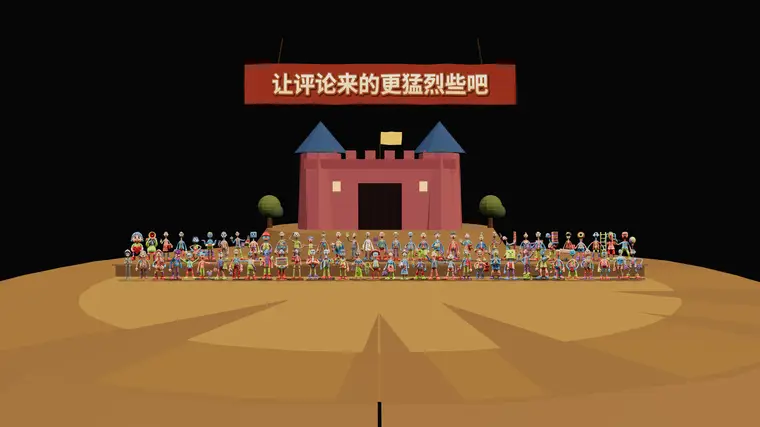
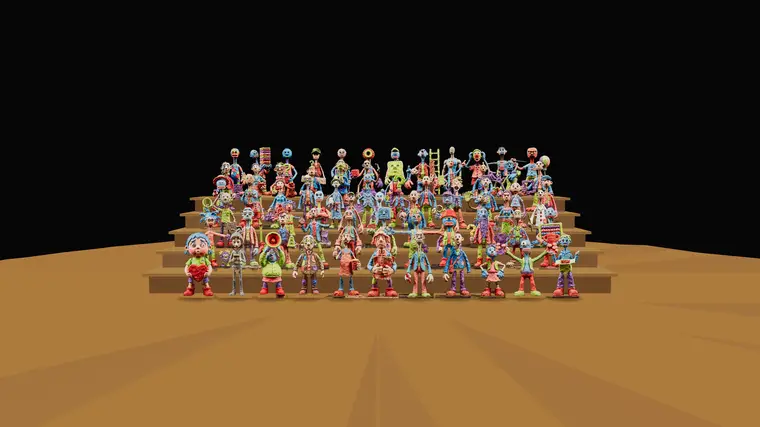
fix(72): 全体合影按用户反馈重拍——去掉横幅标题牌与城堡，69 人合影台阶 6 排毕业照

diff --git a/72/src/photo.html b/72/src/photo.html
@@ -3,7 +3,7 @@
 <head>
 <meta charset="UTF-8">
 <meta name="viewport" content="width=device-width, initial-scale=1">
-<title>全体合影 · 评论区粘土世界</title>
+<title>全体合影 · 毕业照 — 评论区粘土世界</title>
 <style>
   html,body{margin:0;height:100%;background:#060607;overflow:hidden}
   #scene{display:block;width:100%;height:100%}
@@ -13,7 +13,7 @@
 </head>
 <body>
 <canvas id="scene"></canvas>
-<div id="loading">正在集合，合影马上就来…</div>
+<div id="loading">正在排队站好，拍毕业照…</div>
 <script type="module">
 import * as THREE from 'three';
 
@@ -28,8 +28,8 @@ scene.background = new THREE.Color(0x060607);
 scene.fog = new THREE.FogExp2(0x060607, 0.0016);
 
 const camera = new THREE.PerspectiveCamera(40, innerWidth/innerHeight, 0.1, 500);
-camera.position.set(0, 8.6, 57);
-camera.lookAt(0, 6.2, -2);
+camera.position.set(0, 5.4, 26.5);
+camera.lookAt(0, 3.6, -3);
 
 scene.add(new THREE.HemisphereLight(0xfff2dd, 0x3a2c22, 1.05));
 const sun = new THREE.DirectionalLight(0xffe6b8, 1.8); sun.position.set(35, 60, 45); scene.add(sun);
@@ -61,20 +61,8 @@ function M(color, opts={}){
   }
   return matCache.get(key);
 }
-function box(w,h,d,color,x,y,z,ry=0,parent=scene){
+function box(w,h,d,color,x,y,z,parent=scene){
   const m = new THREE.Mesh(new THREE.BoxGeometry(w,h,d), M(color));
-  m.position.set(x,y,z); m.rotation.y = ry; parent.add(m); return m;
-}
-function cyl(rt,rb,h,color,x,y,z,parent=scene,seg=14){
-  const m = new THREE.Mesh(new THREE.CylinderGeometry(rt,rb,h,seg), M(color));
-  m.position.set(x,y,z); parent.add(m); return m;
-}
-function cone(r,h,color,x,y,z,parent=scene,seg=14){
-  const m = new THREE.Mesh(new THREE.ConeGeometry(r,h,seg), M(color));
-  m.position.set(x,y,z); parent.add(m); return m;
-}
-function ball(r,color,x,y,z,parent=scene){
-  const m = new THREE.Mesh(new THREE.SphereGeometry(r,12,10), M(color));
   m.position.set(x,y,z); parent.add(m); return m;
 }
 function jitterGeo(geo, amt, seed){
@@ -90,8 +78,7 @@ function jitterGeo(geo, amt, seed){
   geo.computeVertexNormals();
   return geo;
 }
-// 接触阴影
-const shadowTex = (()=>{ 
+const shadowTex = (()=>{
   const cv = document.createElement('canvas'); cv.width = cv.height = 128;
   const g = cv.getContext('2d');
   const gr = g.createRadialGradient(64,64,4, 64,64,62);
@@ -100,115 +87,26 @@ const shadowTex = (()=>{
   return new THREE.CanvasTexture(cv);
 })();
 const SHADOW_MAT = new THREE.MeshBasicMaterial({map:shadowTex, transparent:true, depthWrite:false});
-function shadowDisc(x, y, z, r, parent=scene){
+function shadowDisc(x, y, z, r){
   const m = new THREE.Mesh(new THREE.PlaneGeometry(r*2, r*2), SHADOW_MAT);
-  m.rotation.x = -Math.PI/2; m.position.set(x, y, z); m.renderOrder = 1; parent.add(m); return m;
+  m.rotation.x = -Math.PI/2; m.position.set(x, y, z); m.renderOrder = 1; scene.add(m); return m;
 }
 
-/* ---------- 舞台地面 ---------- */
+/* ---------- 地面 + 合影台阶（6 排，无背景建筑） ---------- */
+const ROWS = [11, 11, 11, 12, 12, 12];  // 前 → 后，共 69
+const STEP_H = 0.82, STEP_D = 1.75, STEP_W = 21.5;
 {
-  const stage = new THREE.Mesh(jitterGeo(new THREE.CylinderGeometry(36, 40, 2.2, 40), 0.3, 31), M('#9c7a56', {bump:0.5}));
-  stage.position.set(0, -1.1, -2); scene.add(stage);
-  const top = new THREE.Mesh(new THREE.CircleGeometry(35.6, 40), new THREE.MeshLambertMaterial({color:'#a37f52', bumpMap:bumpTex, bumpScale:0.4}));
-  top.rotation.x = -Math.PI/2; top.position.set(0, 0.02, -2); scene.add(top);
-  const inner = new THREE.Mesh(new THREE.CircleGeometry(26, 36), new THREE.MeshLambertMaterial({color:'#b8935e', bumpMap:bumpTex, bumpScale:0.35}));
-  inner.rotation.x = -Math.PI/2; inner.position.set(0, 0.035, 0.5); scene.add(inner);
-  // 后排长凳台
-  box(52, 1.15, 3.4, '#8a6d4f', 0, 0.58, -2.2);
-  box(52.6, 0.18, 3.8, '#a08059', 0, 1.22, -2.2);
-}
-
-/* ---------- 背景城堡（原创，粉墙蓝顶） ---------- */
-{
-  const cg = new THREE.Group(); cg.position.set(0, 0, -22); scene.add(cg);
-  cyl(15, 17.5, 3.6, '#9c7a56', 0, 1.8, 0, cg, 30);
-  const wallC = '#c4747f', roofC = '#4a6a9c', darkC = '#5d4250';
-  cyl(2.6, 3.0, 9.6, wallC, -7.6, 3.6+4.8, 3.4, cg, 12);
-  cyl(2.6, 3.0, 9.6, wallC, 7.6, 3.6+4.8, 3.4, cg, 12);
-  cone(3.5, 4.2, roofC, -7.6, 3.6+11.7, 3.4, cg, 12);
-  cone(3.5, 4.2, roofC, 7.6, 3.6+11.7, 3.4, cg, 12);
-  cyl(1.9, 2.2, 7.4, wallC, -7.6, 3.6+3.7, -4.4, cg, 12);
-  cyl(1.9, 2.2, 7.4, wallC, 7.6, 3.6+3.7, -4.4, cg, 12);
-  cone(2.6, 3.2, roofC, -7.6, 3.6+9.0, -4.4, cg, 12);
-  cone(2.6, 3.2, roofC, 7.6, 3.6+9.0, -4.4, cg, 12);
-  box(18.4, 7.6, 11.6, wallC, 0, 3.6+3.8, 0, 0, cg);
-  box(18.8, 1.2, 12.0, '#b4656f', 0, 3.6+8.2, 0, 0, cg);
-  for(let bx=-8.4; bx<=8.4; bx+=2.4){
-    box(1.3, 1.1, 0.7, wallC, bx, 3.6+9.3, 5.7, 0, cg);
-  }
-  box(5.4, 5.8, 0.7, '#3d2c33', 0, 3.6+2.9, 5.85, 0, cg);
-  for(let gi=-2; gi<=2; gi++) box(0.18, 5.0, 0.18, '#2e2a26', gi*1.1, 3.6+2.6, 6.25, 0, cg);
-  for(let wx=-5.4; wx<=5.4; wx+=3.6){
-    if(Math.abs(wx) < 2) continue;
-    const win = new THREE.Mesh(new THREE.PlaneGeometry(1.0, 1.25), new THREE.MeshBasicMaterial({color:0xffca7a}));
-    win.position.set(wx, 3.6+5.4, 5.83); cg.add(win);
-  }
-  cyl(0.1, 0.1, 4.0, '#5d4a33', 0, 3.6+10.4, 0, cg, 6);
-  const flag = new THREE.Mesh(jitterGeo(new THREE.PlaneGeometry(2.8, 1.7, 4, 2), 0.16, 42), new THREE.MeshBasicMaterial({color:0xe9b44c, side:THREE.DoubleSide}));
-  flag.position.set(1.5, 3.6+11.9, 0); cg.add(flag);
-  // 城堡两侧小树
-  for(const sx of [-14.5, 14.5]){
-    cyl(0.26, 0.4, 1.9, '#6e5138', sx, 4.4, 2, cg, 7);
-    ball(1.5, '#7a8450', sx, 6.4, 2, cg); ball(1.0, '#5e7153', sx+0.9, 5.7, 2.4, cg);
+  const stage = new THREE.Mesh(jitterGeo(new THREE.CylinderGeometry(26, 29, 2.2, 40), 0.3, 31), M('#9c7a56', {bump:0.5}));
+  stage.position.set(0, -1.1, -4); scene.add(stage);
+  const top = new THREE.Mesh(new THREE.CircleGeometry(25.6, 40), new THREE.MeshLambertMaterial({color:'#a37f52', bumpMap:bumpTex, bumpScale:0.4}));
+  top.rotation.x = -Math.PI/2; top.position.set(0, 0.02, -4); scene.add(top);
+  for(let r=1; r<ROWS.length; r++){
+    box(STEP_W, r*STEP_H, 2.3, r%2 ? '#8a6d4f' : '#96795a', 0, r*STEP_H/2, -r*STEP_D);
+    box(STEP_W + 0.5, 0.14, 2.6, '#a8875f', 0, r*STEP_H + 0.07, -r*STEP_D);
   }
 }
 
-/* ---------- 黏土标题牌 ---------- */
-{
-  const cv = document.createElement('canvas'); cv.width = 2048; cv.height = 300;
-  const g = cv.getContext('2d');
-  g.clearRect(0,0,2048,300);
-  const text = '让评论来的更猛烈些吧';
-  const rnd = mulberry32(99);
-  g.textAlign = 'center'; g.textBaseline = 'middle';
-  const fs = 168;
-  g.font = `900 ${fs}px "Hiragino Maru Gothic ProN","Yu Gothic UI","Noto Sans CJK SC",sans-serif`;
-  const totalW = g.measureText(text).width;
-  // 逐字测宽排布，逐字微旋转/抖动（手捏感）
-  const widths = [...text].map(ch => g.measureText(ch).width);
-  let cx = 1024 - totalW/2;
-  [...text].forEach((ch, i)=>{
-    const w = widths[i];
-    const x = cx + w/2, y = 152 + (rnd()-0.5)*10;
-    const rot = (rnd()-0.5)*0.055;
-    g.save(); g.translate(x, y); g.rotate(rot);
-    // 黏土字：深色描边（多层偏移）+ 本体 + 高光 + 斑点
-    g.lineJoin = 'round';
-    for(const [ox, oy, col, lw] of [[5,7,'rgba(70,35,20,0.9)',26],[0,0,'#8a4a2a',22]]){
-      g.strokeStyle = col; g.lineWidth = lw;
-      g.strokeText(ch, ox, oy);
-    }
-    const grad = g.createLinearGradient(0, -fs/2, 0, fs/2);
-    grad.addColorStop(0, '#ffe9bd'); grad.addColorStop(0.55, '#f7cf8e'); grad.addColorStop(1, '#e8a860');
-    g.fillStyle = grad;
-    g.fillText(ch, 0, 0);
-    g.fillStyle = 'rgba(255,255,255,0.20)';
-    g.fillText(ch, -2, -5);
-    g.restore();
-    cx += w;
-  });
-  // 指纹斑点
-  for(let i=0;i<130;i++){
-    g.fillStyle = `rgba(120,70,30,${0.04+rnd()*0.07})`;
-    g.beginPath(); g.arc(rnd()*2048, rnd()*300, 1.5+rnd()*3.5, 0, 6.29); g.fill();
-  }
-  const tex = new THREE.CanvasTexture(cv);
-  tex.colorSpace = THREE.SRGBColorSpace;
-  tex.anisotropy = 4;
-  const board = new THREE.Group(); board.position.set(0, 20.6, -11); board.rotation.x = -0.04; scene.add(board);
-  const plaque = new THREE.Mesh(jitterGeo(new THREE.BoxGeometry(31, 4.6, 0.9, 12, 2, 1), 0.14, 7), M('#b3543f', {bump:0.45}));
-  board.add(plaque);
-  const face = new THREE.Mesh(new THREE.PlaneGeometry(30, 4.5), new THREE.MeshBasicMaterial({map:tex, transparent:true}));
-  face.position.z = 0.66; board.add(face);
-  // 吊绳
-  for(const sx of [-11.5, 11.5]){
-    const rope = cyl(0.09, 0.09, 3.2, '#5d4a33', sx, 24.4, -11.4, scene, 6);
-    rope.rotation.z = sx > 0 ? 0.18 : -0.18;
-  }
-  ball(0.38, '#e9b44c', -15.2, 20.6, -11); ball(0.38, '#e9b44c', 15.2, 20.6, -11);
-}
-
-/* ---------- 全员集合：前后两排 ---------- */
+/* ---------- 全员集合：6 排毕业照 ---------- */
 const texLoader = new THREE.TextureLoader();
 texLoader.setCrossOrigin('anonymous');
 let loadedCount = 0;
@@ -232,16 +130,16 @@ function charSprite(c, x, y, z, h){
 }
 fetch('/characters.json').then(r=>r.json()).then(data=>{
   const chars = [...data].sort((a,b)=>a.id-b.id);
-  const back = chars.filter((_,i)=>i%2===0);   // 35 人后排
-  const front = chars.filter((_,i)=>i%2===1);  // 34 人前排
-  const rnd = mulberry32(5);
-  back.forEach((c, i)=>{
-    const x = -24.6 + i*(49.2/(back.length-1)) + (rnd()-0.5)*0.14;
-    charSprite(c, x, 1.31, -2.2, 3.05);
-  });
-  front.forEach((c, i)=>{
-    const x = -23.9 + i*(47.8/(front.length-1)) + (rnd()-0.5)*0.14;
-    charSprite(c, x, 0.03, 1.8, 2.95);
+  const rnd = mulberry32(11);
+  let idx = 0;
+  ROWS.forEach((count, r)=>{
+    const y = r === 0 ? 0.03 : r*STEP_H + 0.14;
+    const z = r === 0 ? 0.6 : -r*STEP_D;
+    for(let i=0;i<count;i++){
+      const c = chars[idx++];
+      const x = (i - (count-1)/2) * 1.62 + (rnd()-0.5)*0.12;
+      charSprite(c, x, y, z, 2.9 + rnd()*0.15);
+    }
   });
   renderer.render(scene, camera);
 }).catch(()=>{

diff --git a/72/index.html b/72/index.html
@@ -161,10 +161,10 @@ footer{margin-top:26px;text-align:center;font-size:12.5px;color:#77644c;line-hei
 </div>
 
 <section class="groupPhoto">
-  <h2>📸 全体合影 · 聚会结束</h2>
-  <p>69 个角色，前后两排站好，背景是评论城堡，头顶的标题牌也是黏土捏的——「让评论来的更猛烈些吧」。</p>
+  <h2>📸 全体合影 · 毕业照</h2>
+  <p>69 个角色在合影台阶上排成 6 排，正正经经拍一张毕业照——一个不少，全都看着镜头。</p>
   <a href="/img/group-photo-hi.webp" target="_blank" rel="noopener" title="点击看高清大图（4400 × 2476）">
-    <img src="/img/group-photo-lo.webp" alt="69 个角色在评论城堡前的全体合影" width="760" height="427" loading="lazy" decoding="async">
+    <img src="/img/group-photo-lo.webp" alt="69 个角色排成 6 排的全体合影毕业照" width="760" height="427" loading="lazy" decoding="async">
   </a>
   <small>👆 点击图片看高清大图（4400 × 2476，新窗口打开）· 本图为滚动懒加载，滑到这里才会加载</small>
 </section>

diff --git a/72/src/build.py b/72/src/build.py
@@ -197,10 +197,10 @@ footer{margin-top:26px;text-align:center;font-size:12.5px;color:#77644c;line-hei
 </div>
 
 <section class="groupPhoto">
-  <h2>📸 全体合影 · 聚会结束</h2>
-  <p>69 个角色，前后两排站好，背景是评论城堡，头顶的标题牌也是黏土捏的——「让评论来的更猛烈些吧」。</p>
+  <h2>📸 全体合影 · 毕业照</h2>
+  <p>69 个角色在合影台阶上排成 6 排，正正经经拍一张毕业照——一个不少，全都看着镜头。</p>
   <a href="/img/group-photo-hi.webp" target="_blank" rel="noopener" title="点击看高清大图（4400 × 2476）">
-    <img src="/img/group-photo-lo.webp" alt="69 个角色在评论城堡前的全体合影" width="760" height="427" loading="lazy" decoding="async">
+    <img src="/img/group-photo-lo.webp" alt="69 个角色排成 6 排的全体合影毕业照" width="760" height="427" loading="lazy" decoding="async">
   </a>
   <small>👆 点击图片看高清大图（4400 × 2476，新窗口打开）· 本图为滚动懒加载，滑到这里才会加载</small>
 </section>
